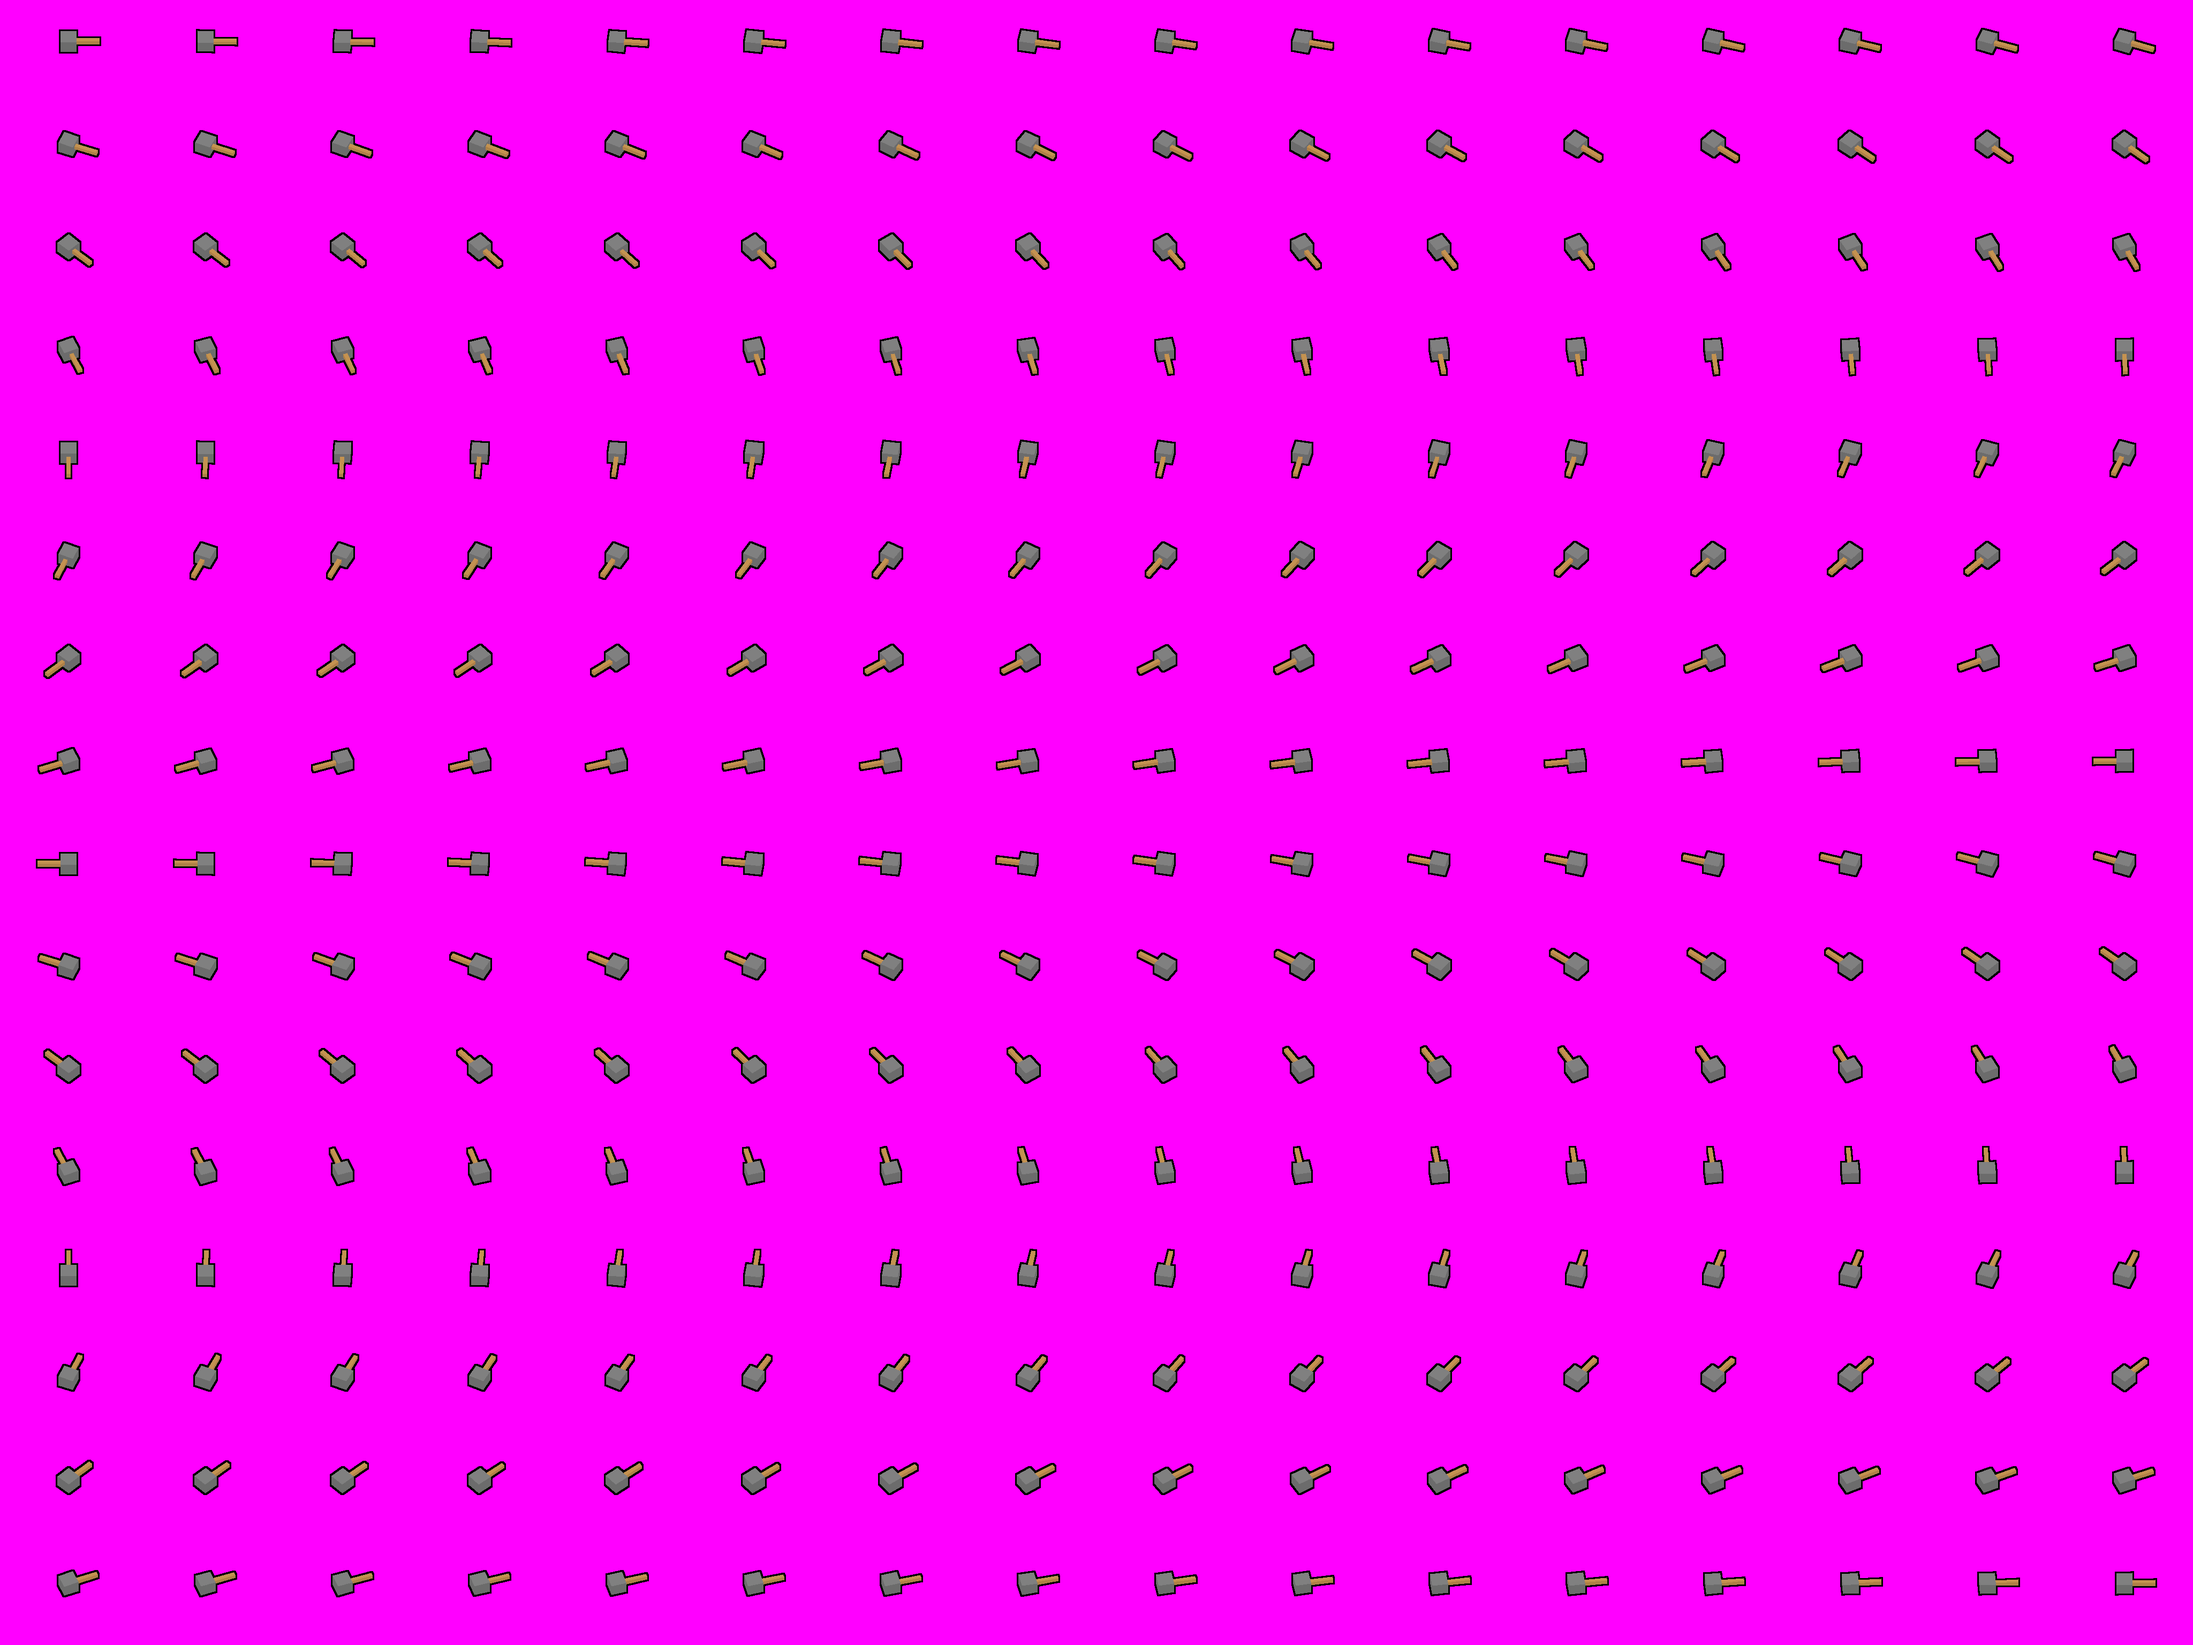
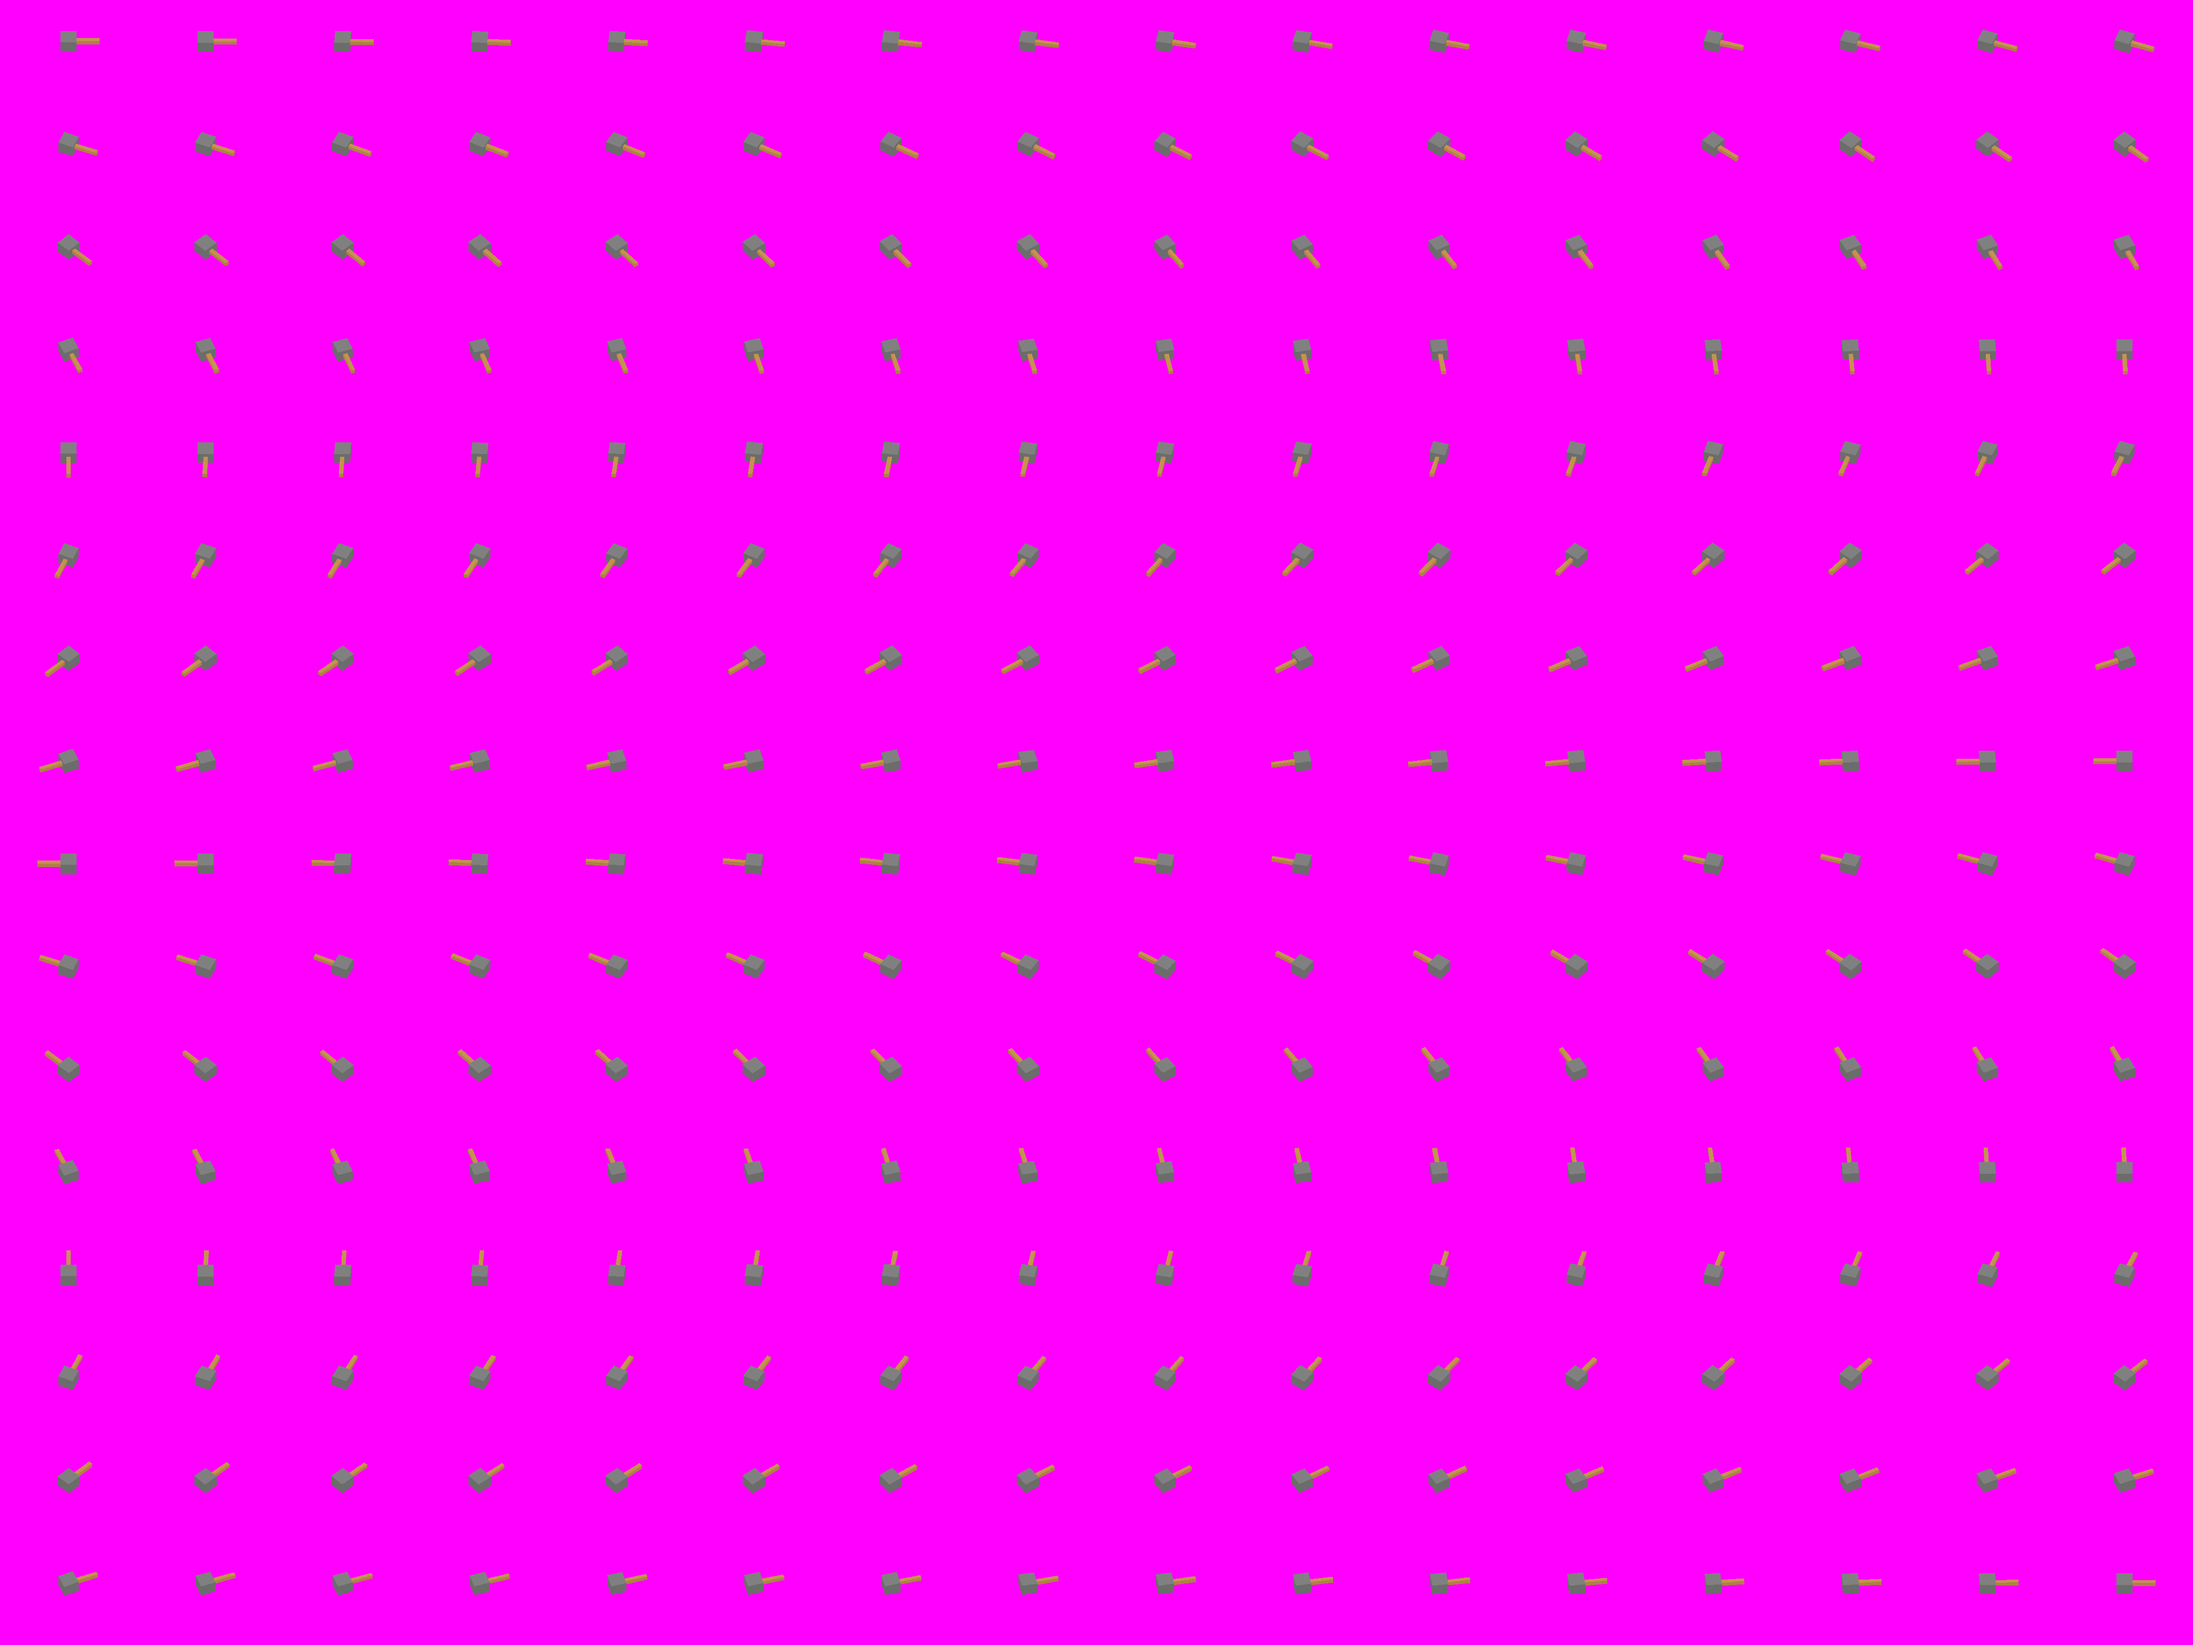
Add new outline

diff --git a/__tank renderer.py b/__tank renderer.py
@@ -86,6 +86,9 @@ draw_body = ImageDraw.Draw(img_body, "RGB")
 img_head = Image.new("RGB", (HEADTILE*4*SHEETWIDTH, HEADTILE*3*SHEETHEIGHT), COLORKEY)
 draw_head = ImageDraw.Draw(img_head, "RGB")
 
+img_body_shadow = Image.new("RGB", (BODYTILE*4*SHEETWIDTH, BODYTILE*3*SHEETHEIGHT), COLORKEY)
+img_head_shadow = Image.new("RGB", (HEADTILE*4*SHEETWIDTH, HEADTILE*3*SHEETHEIGHT), COLORKEY)
+
 img_track = Image.new("RGBA", (TRACKTILE*4*SHEETWIDTH, TRACKTILE*3*SHEETHEIGHT), (255, 255, 255, 0))
 draw_track = ImageDraw.Draw(img_track, "RGBA")
 
@@ -101,7 +104,7 @@ for a in range(angles):
 	tank_body.sort(key=lambda x: sum([sqrt((i[2]-100)**2 + (i[0]*sin(ang) + i[1]*cos(ang)-100)**2) for i in x[0]]), reverse=True)
 	tank_head.sort(key=lambda x: sum([sqrt((i[2]-100)**2 + (i[0]*sin(ang) + i[1]*cos(ang)-100)**2) for i in x[0]]), reverse=True)
 	
-	if draw == "tank":
+	if draw == "tank" or draw == "shadow":
 		for i, p in enumerate(tank_body):
 			tp = []
 			for j in p[0]:
@@ -132,8 +135,8 @@ for a in range(angles):
 				tp.append((po[0]+(a%SHEETWIDTH)*BULLETTILE*4, po[1]+(a//SHEETWIDTH)*BULLETTILE*3))
 			draw_bullet.polygon(tp, p[1])
 
-if draw == "tank":
-	pix_body = img_body.load()
+if draw == "shadow":
+	pix_body = img_body_shadow.load()
 	pix_body_copy = img_body.copy().load()
 	for x in range(SHEETWIDTH*BODYTILE*4):
 		for y in range(SHEETHEIGHT*BODYTILE*3):
@@ -143,7 +146,7 @@ if draw == "tank":
 						if pix_body[x+i, y+j] == COLORKEY:
 							pix_body[x+i, y+j] = (0, 0, 0)
 
-	pix_head = img_head.load()
+	pix_head = img_head_shadow.load()
 	pix_head_copy = img_head.copy().load()
 	for x in range(SHEETWIDTH*HEADTILE*4):
 		for y in range(SHEETHEIGHT*HEADTILE*3):
@@ -174,7 +177,9 @@ if draw == "bullet":
 
 if len(sys.argv) > 2 and sys.argv[2] in "preview":
 	pass
-	# img_body.show()
-	# img_head.show()
-	# img_track.show()
-	# img_bullet.show()
+	img_body.show()
+	img_head.show()
+	img_body_shadow.show()
+	img_head_shadow.show()
+	img_track.show()
+	img_bullet.show()

diff --git a/tanks.py b/tanks.py
@@ -235,10 +235,15 @@ while not stop:
 	for y in range(FIELDHEIGHT):
 		for t in main.tanks:
 			if int(t.y+0.5) == y and not t.dead:
+				screen.blit(main.assets["tank_body_shadow"], ((t.x+0.5)*SCALEX - (BODYTILEX//2), (t.y+1.5)*SCALEY - (BODYTILEY//2)), Rect(t.get_body_sheet()[0]*BODYTILEX, t.get_body_sheet()[1]*BODYTILEY, BODYTILEX, BODYTILEY))
+				screen.blit(main.assets["tank_head_shadow"], ((t.x+0.5)*SCALEX - (HEADTILEX//2), (t.y+1.5)*SCALEY - (HEADTILEY//2)), Rect(t.get_aim_sheet()[0]*HEADTILEX, t.get_aim_sheet()[1]*HEADTILEY, HEADTILEX, HEADTILEY))
+		for t in main.tanks:
+			if int(t.y+0.5) == y and not t.dead:
 				screen.blit(main.assets["tank_" + t.type + "_body"], ((t.x+0.5)*SCALEX - (BODYTILEX//2), (t.y+1.5)*SCALEY - (BODYTILEY//2)), Rect(t.get_body_sheet()[0]*BODYTILEX, t.get_body_sheet()[1]*BODYTILEY, BODYTILEX, BODYTILEY))
 		for t in main.tanks:
 			if int(t.y+0.5) == y and not t.dead:
 				screen.blit(main.assets["tank_" + t.type + "_head"], ((t.x+0.5)*SCALEX - (HEADTILEX//2), (t.y+1.5)*SCALEY - (HEADTILEY//2)), Rect(t.get_aim_sheet()[0]*HEADTILEX, t.get_aim_sheet()[1]*HEADTILEY, HEADTILEX, HEADTILEY))
+				
 		
 		for b in main.bullets:
 			if int(b.y+0.5) == y:

diff --git a/loader.py b/loader.py
@@ -57,6 +57,10 @@ def load_extra():
 	assets["bullet"].set_colorkey(COLORKEY)
 	assets["rocket"] = image.load("assets/graphics/bullet2.png").convert()
 	assets["rocket"].set_colorkey(COLORKEY)
+	assets["tank_body_shadow"] = image.load("assets/graphics/tank_body_shadow.png").convert()
+	assets["tank_body_shadow"].set_colorkey(COLORKEY)
+	assets["tank_head_shadow"] = image.load("assets/graphics/tank_head_shadow.png").convert()
+	assets["tank_head_shadow"].set_colorkey(COLORKEY)
 	
 	return assets
 
